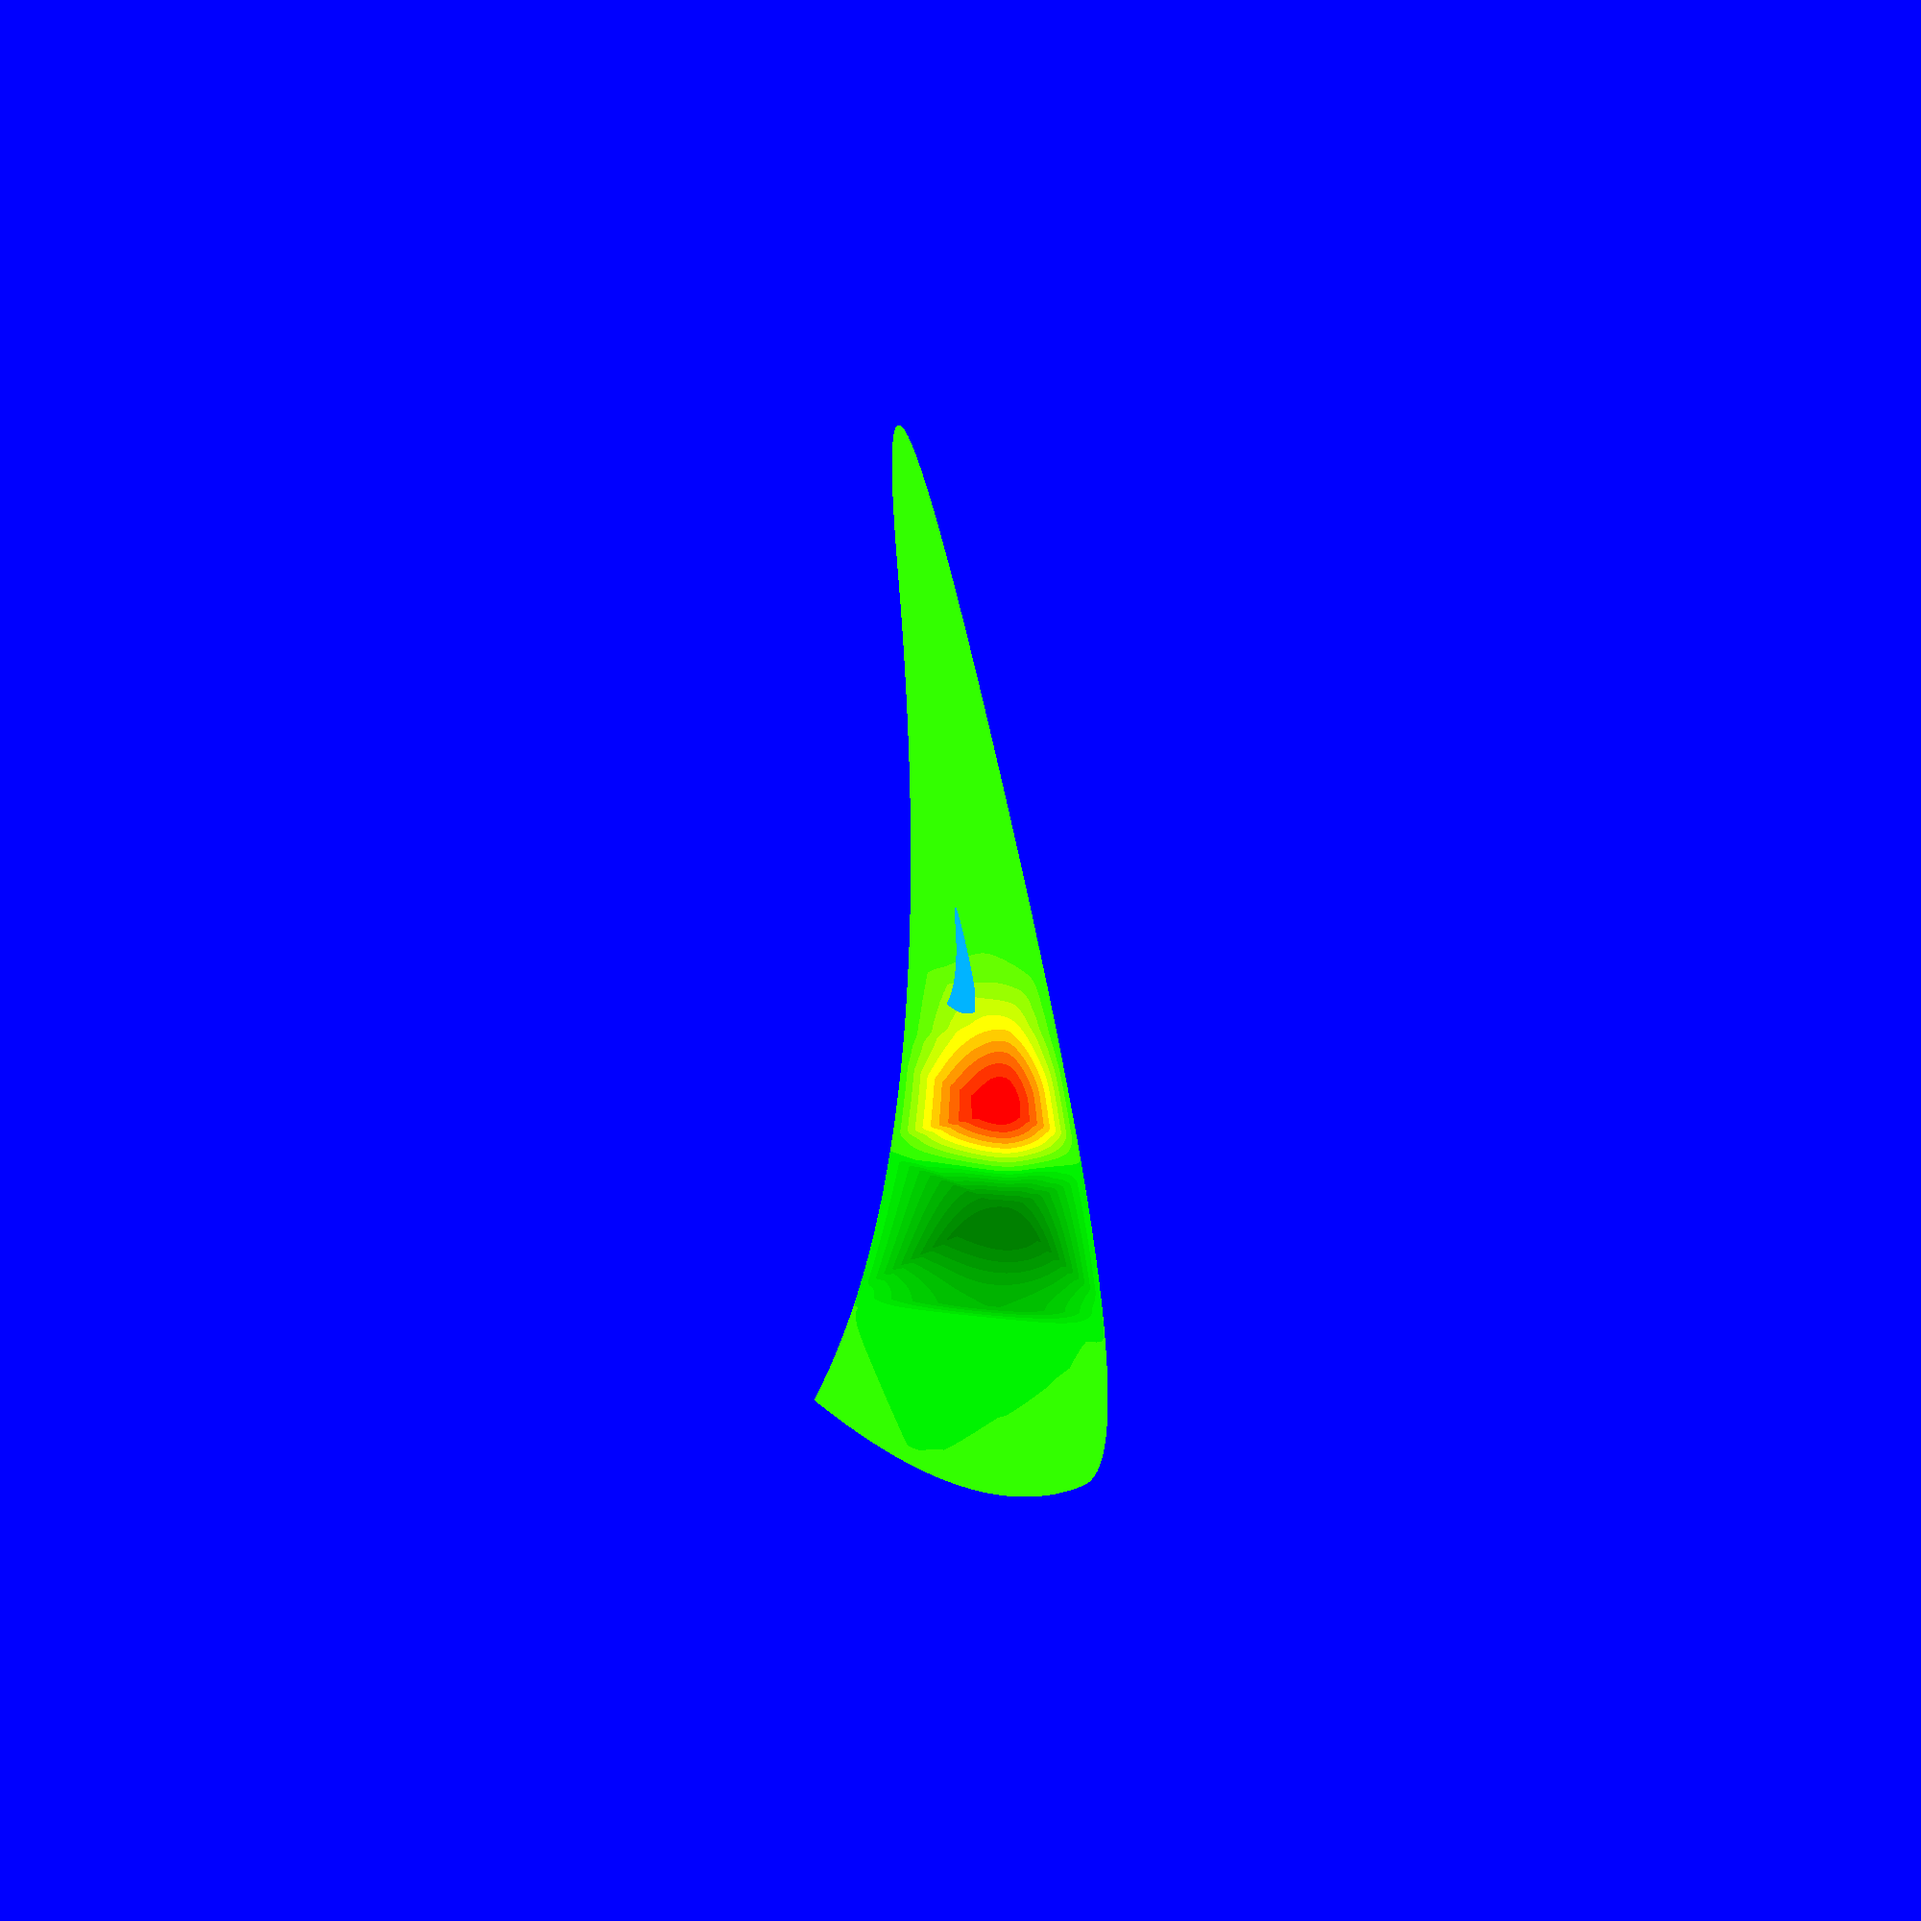
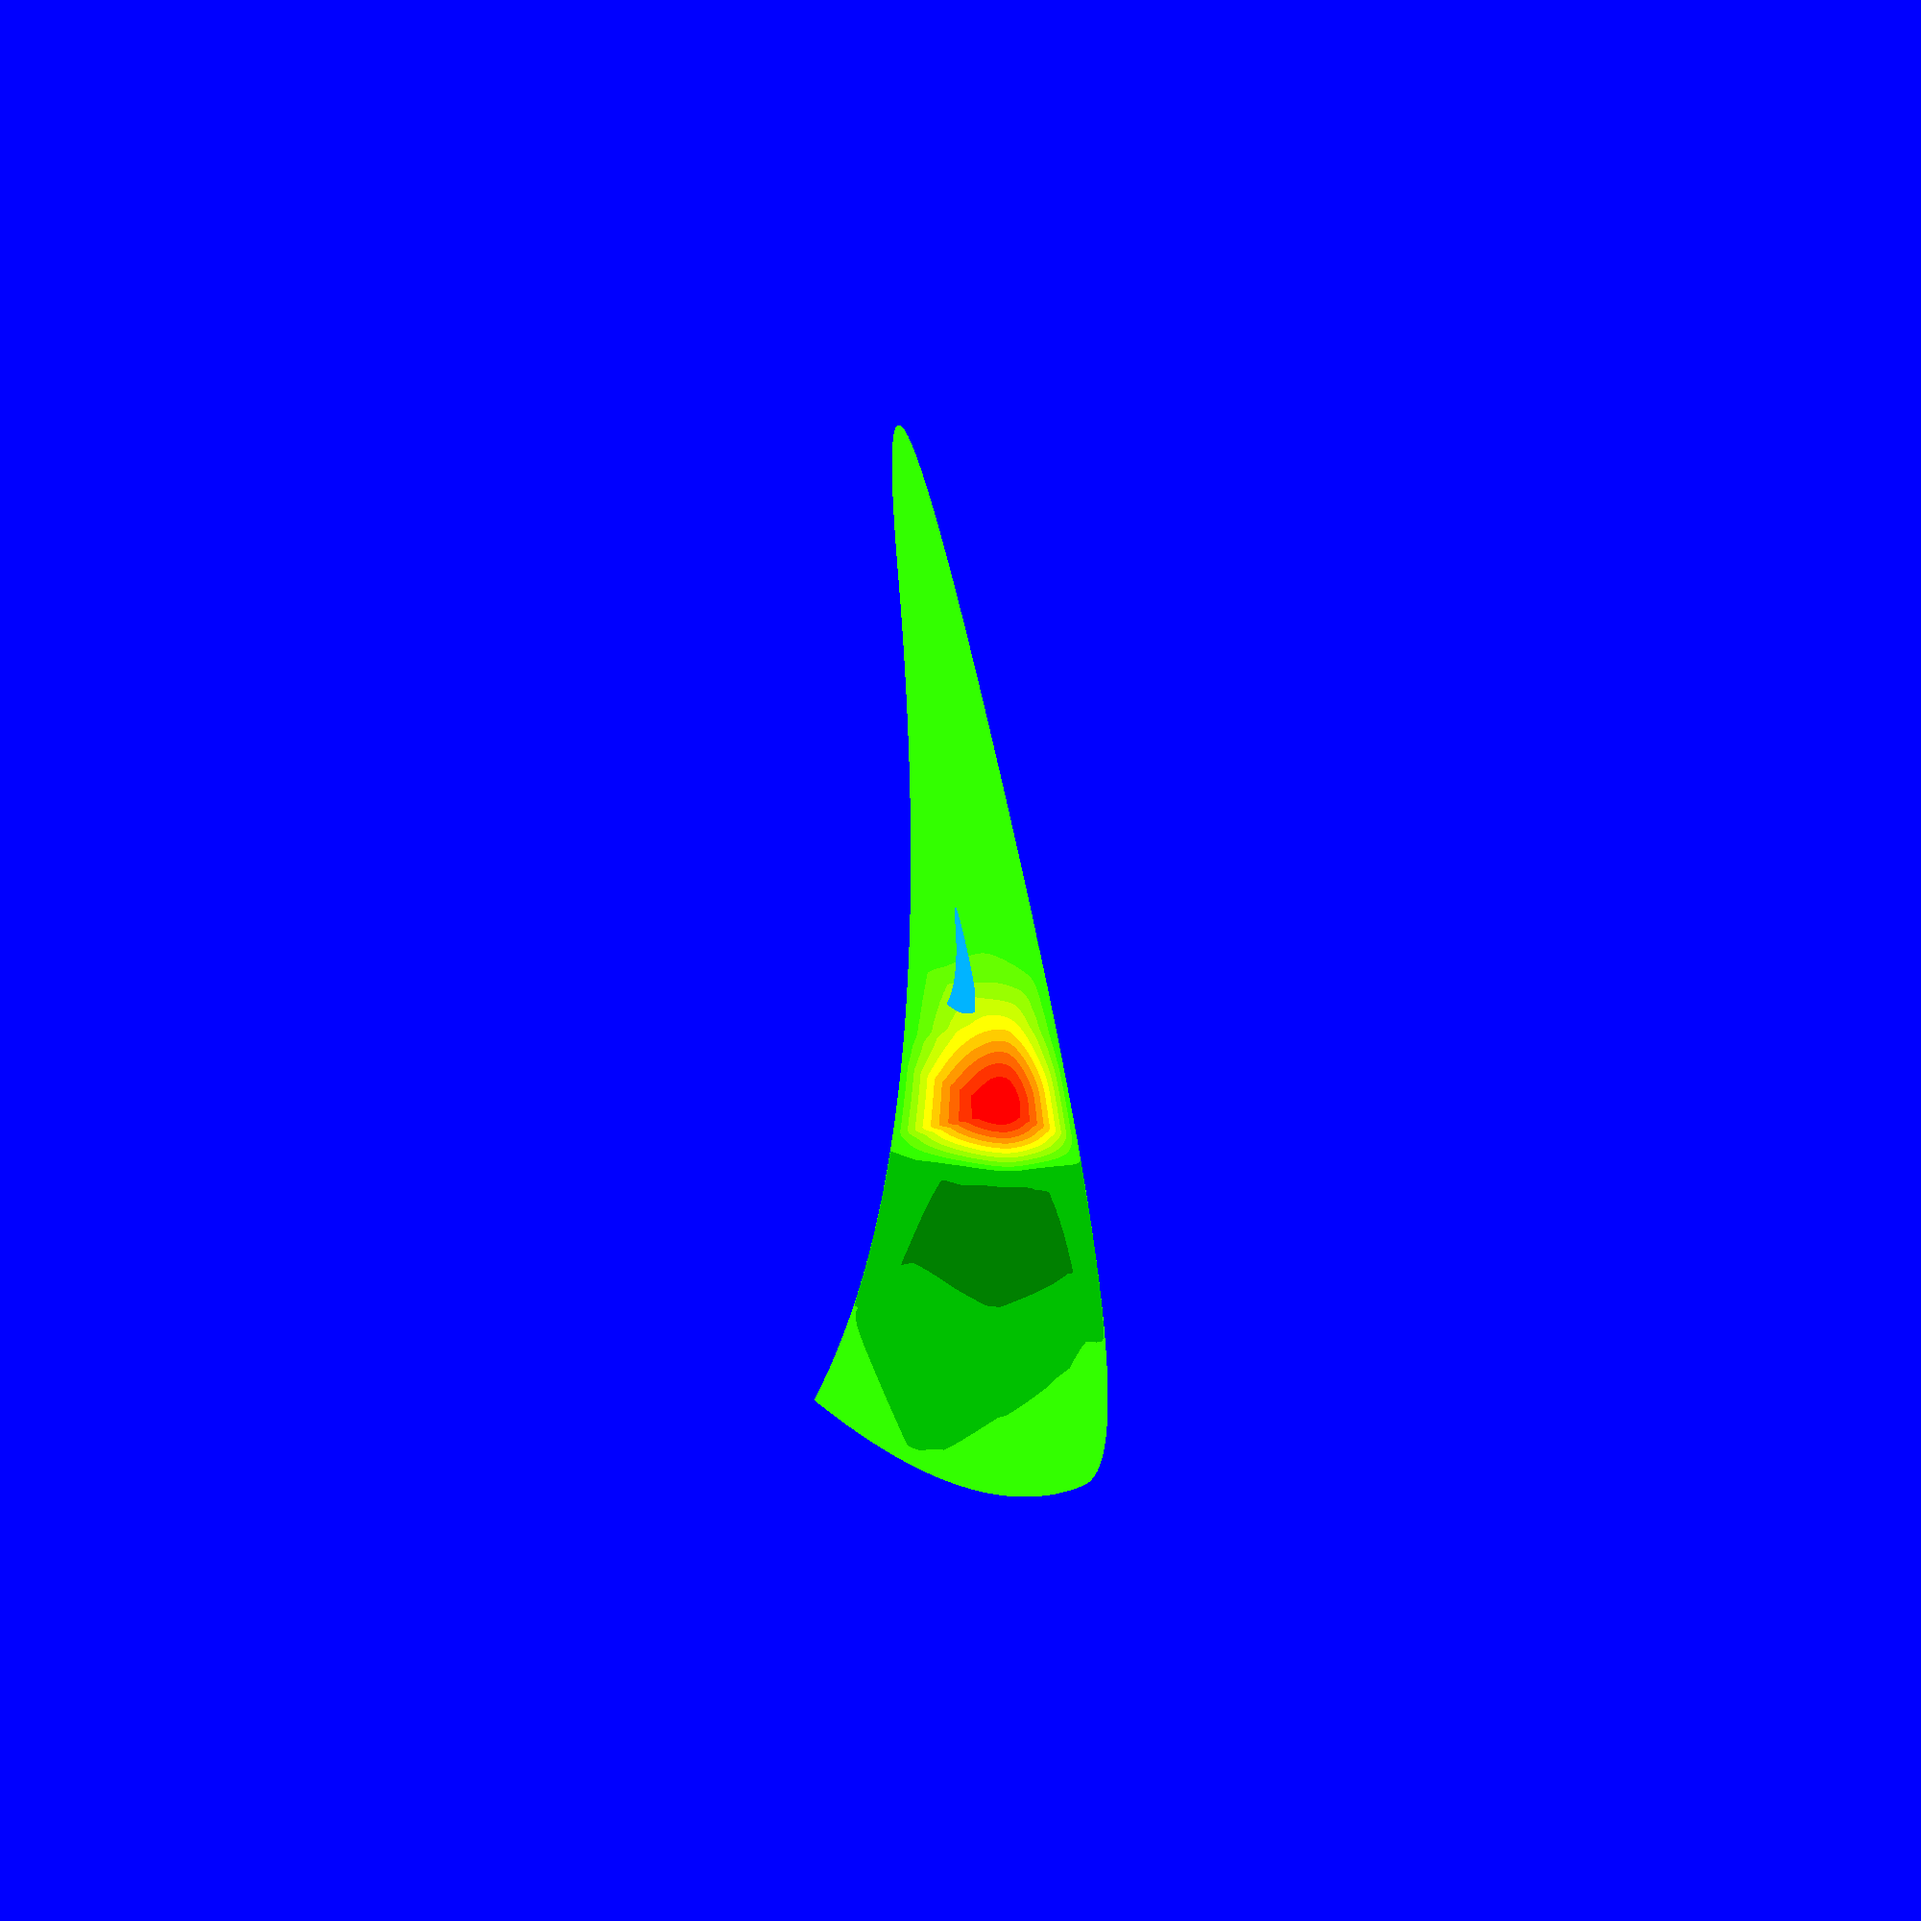
Change depression phases to constant of 2

Changed region(s): [[0.434, 0.589, 0.589, 0.775]]

diff --git a/python/World.py b/python/World.py
@@ -48,9 +48,10 @@ class World:
     
     def give_color(self,land: Land,n: int):
         h_pos = self.height_phases_positive(n)
-        h_neg = self.height_phases_negative(n)
+        h_neg = self.height_phases_negative(2)
         c_pos = self.color_phases_positive(n)
-        c_neg = self.color_phases_negative(n)
+        c_neg = self.color_phases_negative(2)
+        print(len(c_neg))
         x_move = land.start[0]
         y_move = land.start[1]
         land_size_x = land.height_map.shape[1]
